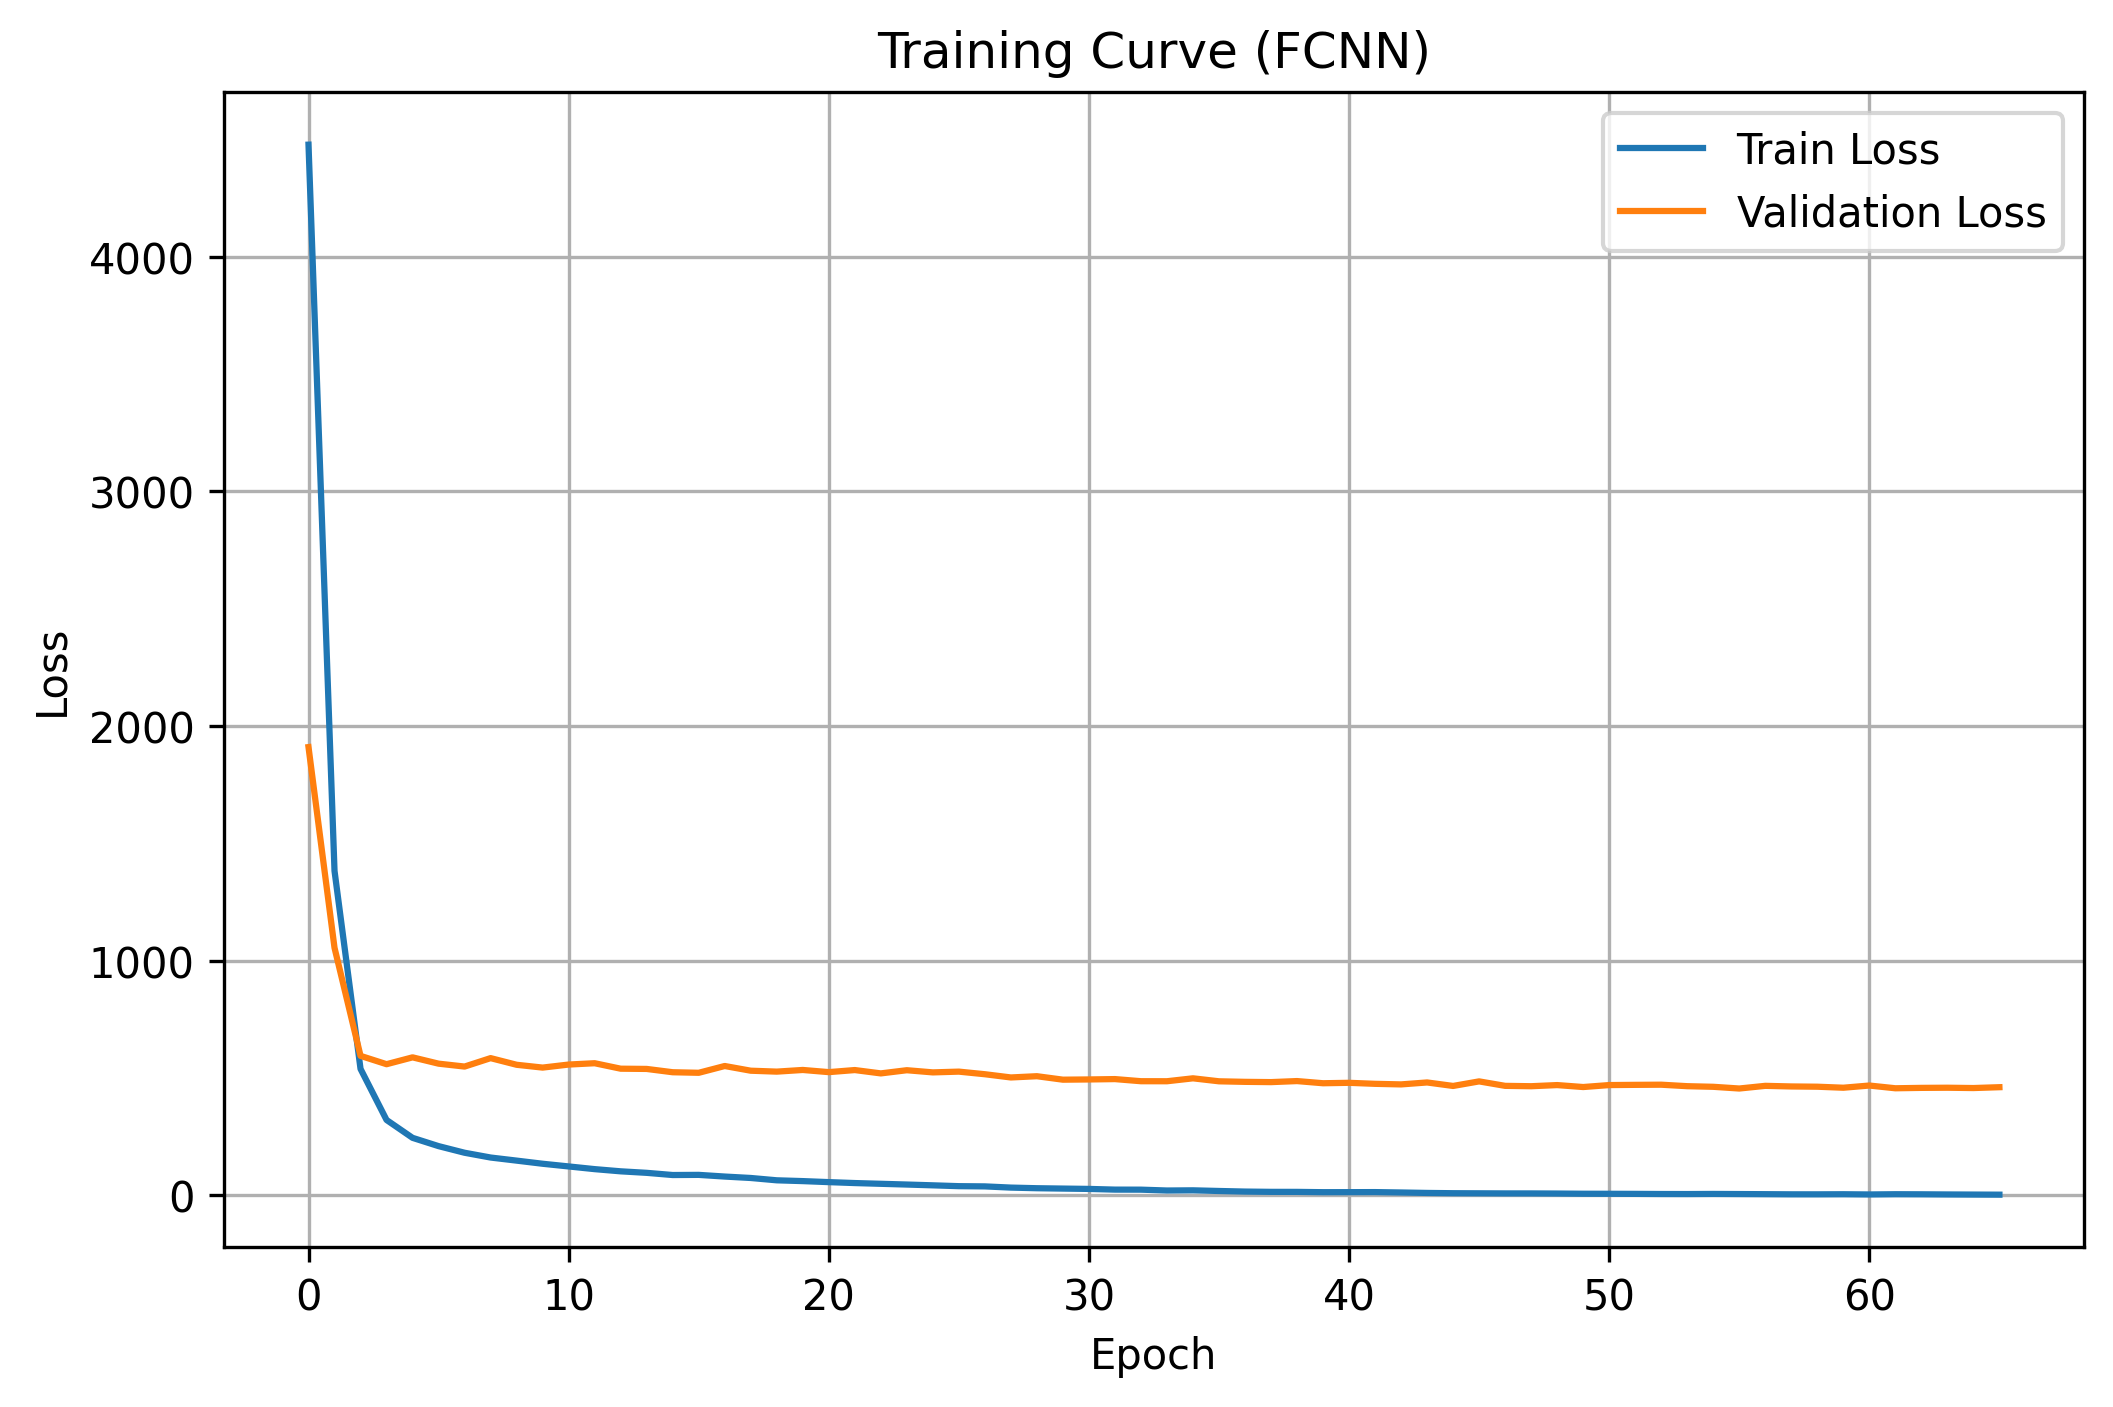
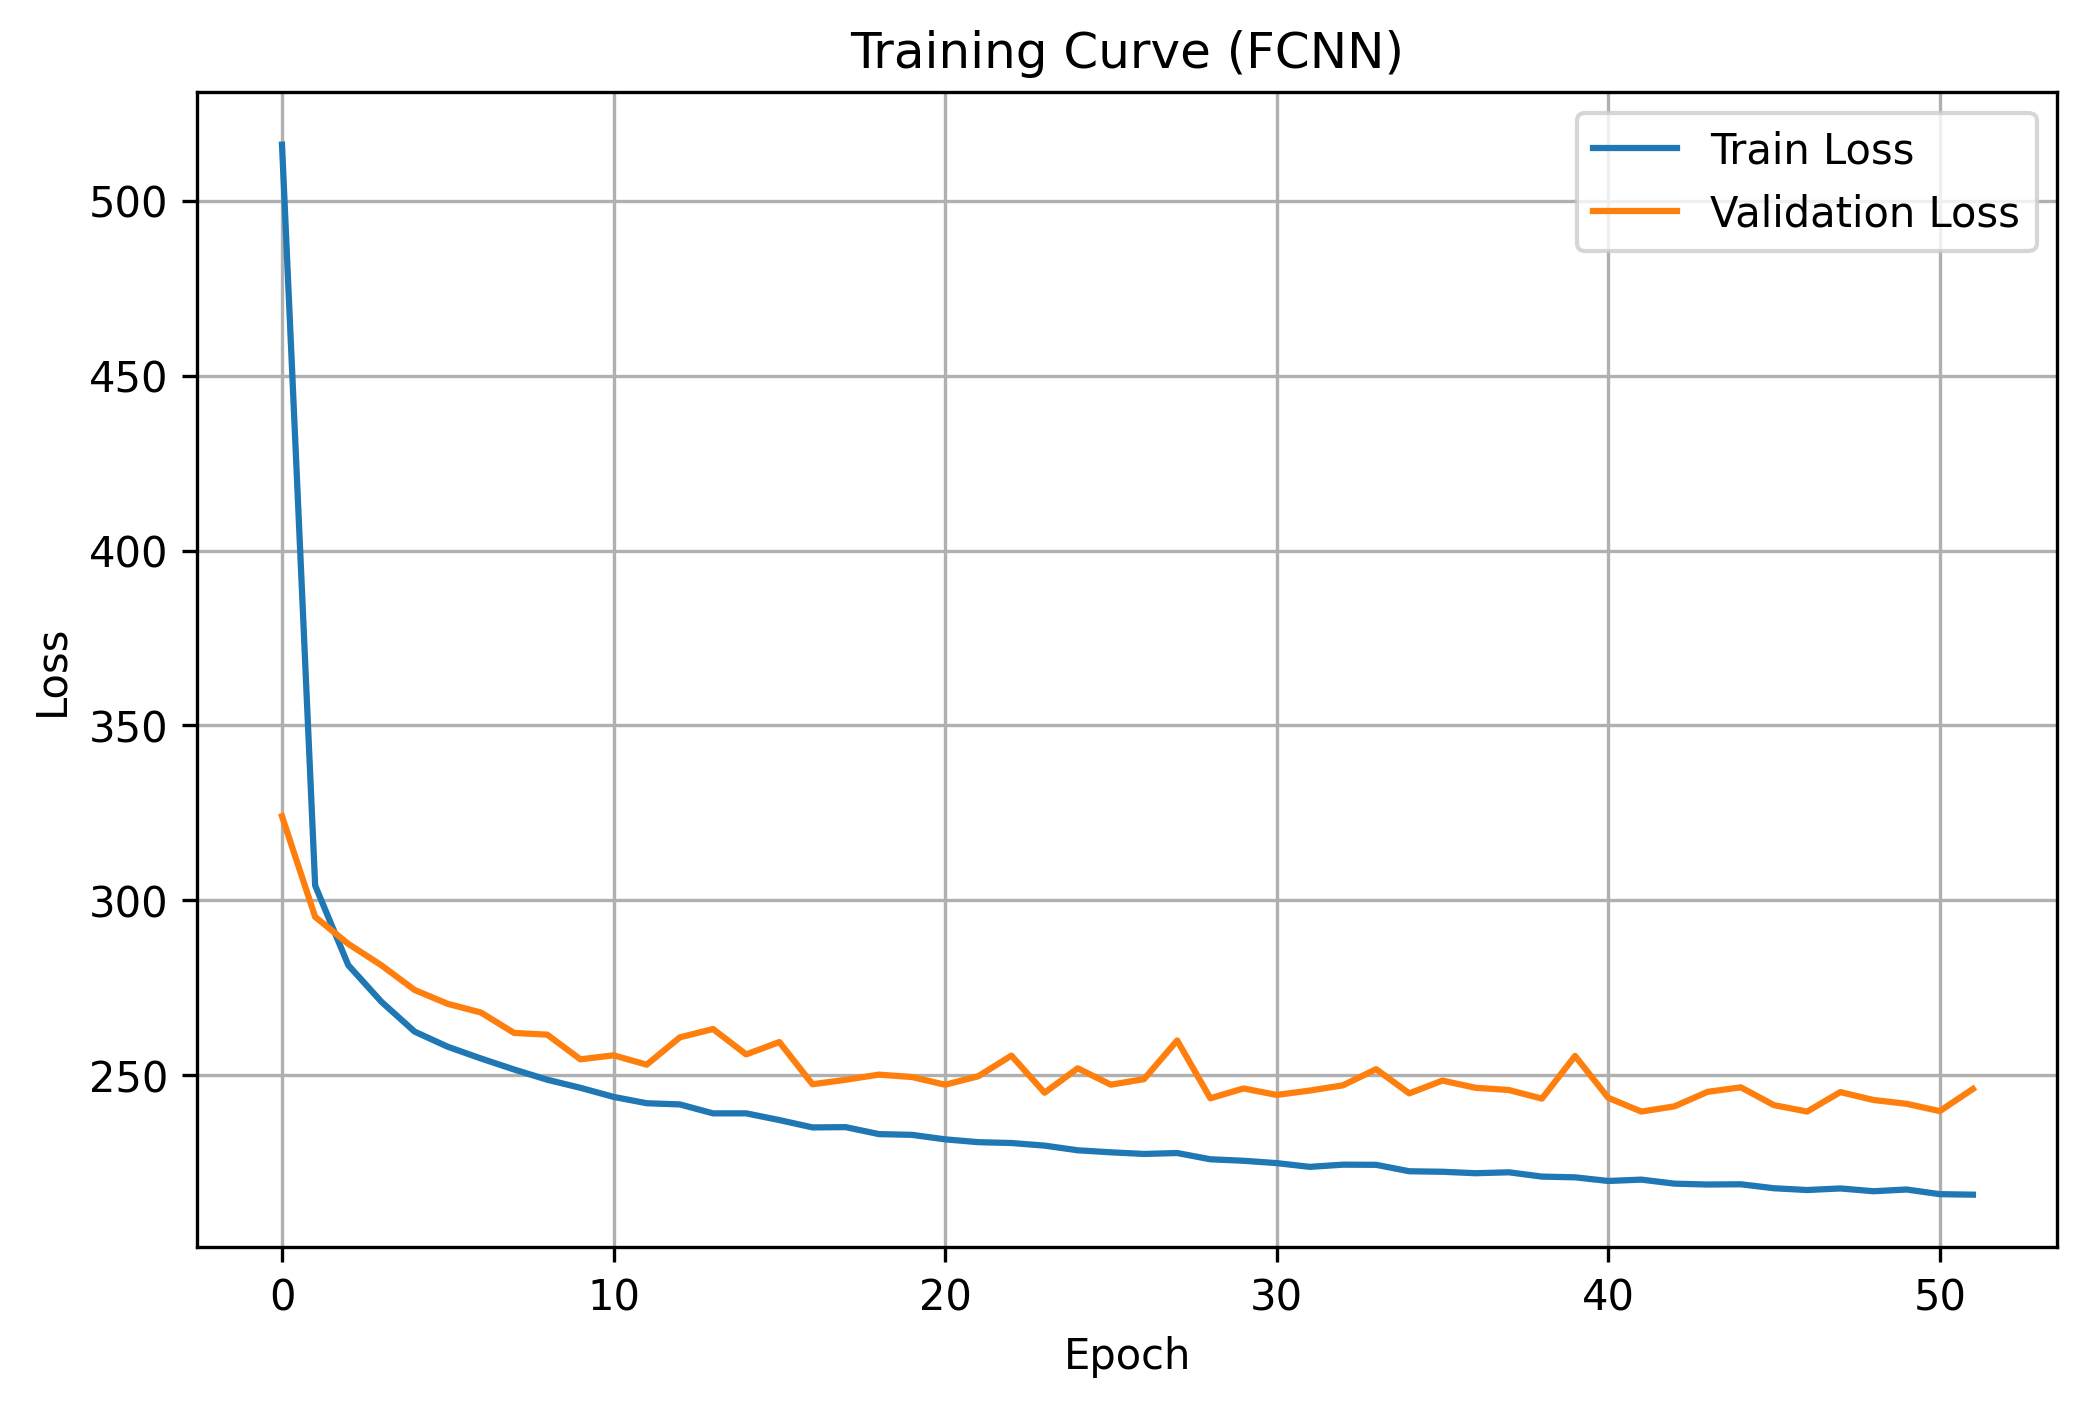
Update project

diff --git a/src/train.py b/src/train.py
@@ -27,7 +27,7 @@ def plot_true_vs_pred(test, pred, model_name, split_name, variable_name, fig_dir
   plt.title(f"True vs. Predicted {clean_filename(model_name)}_{variable_name}_{split_name}")
 
   if fig_dir is not None:
-    plt.savefig(f"{Path(fig_dir)} / True vs. Predicted {clean_filename(model_name)}_{variable_name}_{split_name}.png", dpi=300, bbox_inches="tight")
+    plt.savefig(f"{Path(fig_dir)}/True_vs._Predicted_{clean_filename(model_name)}_{variable_name}_{split_name}.png", dpi=300, bbox_inches="tight")
 
   plt.show()
 